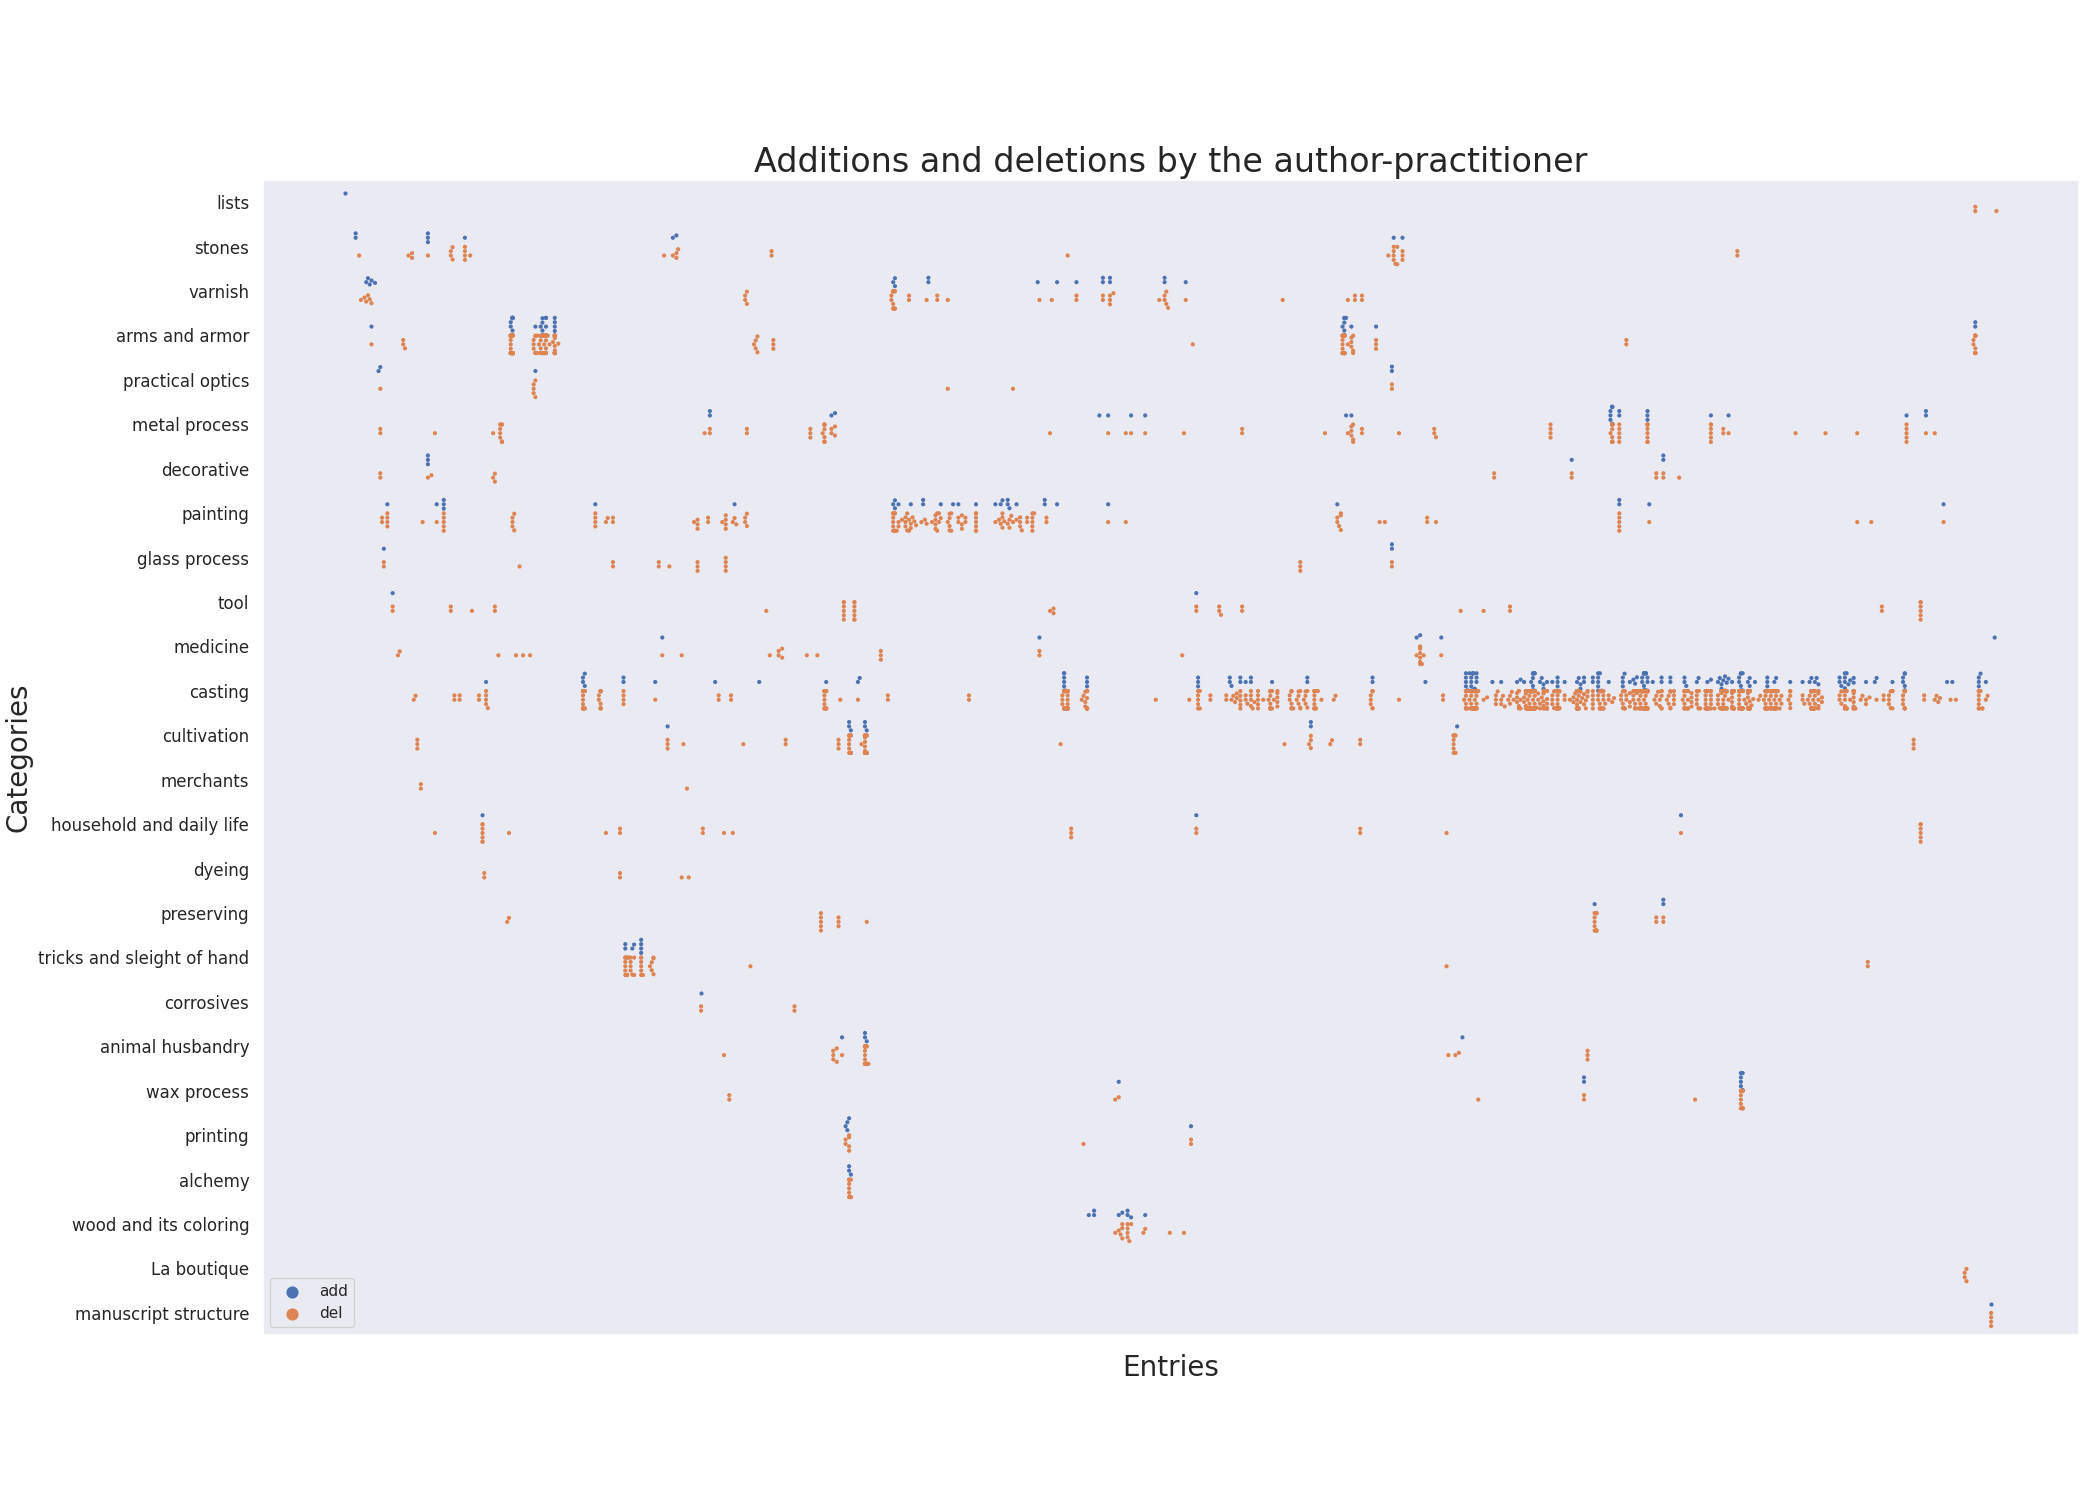
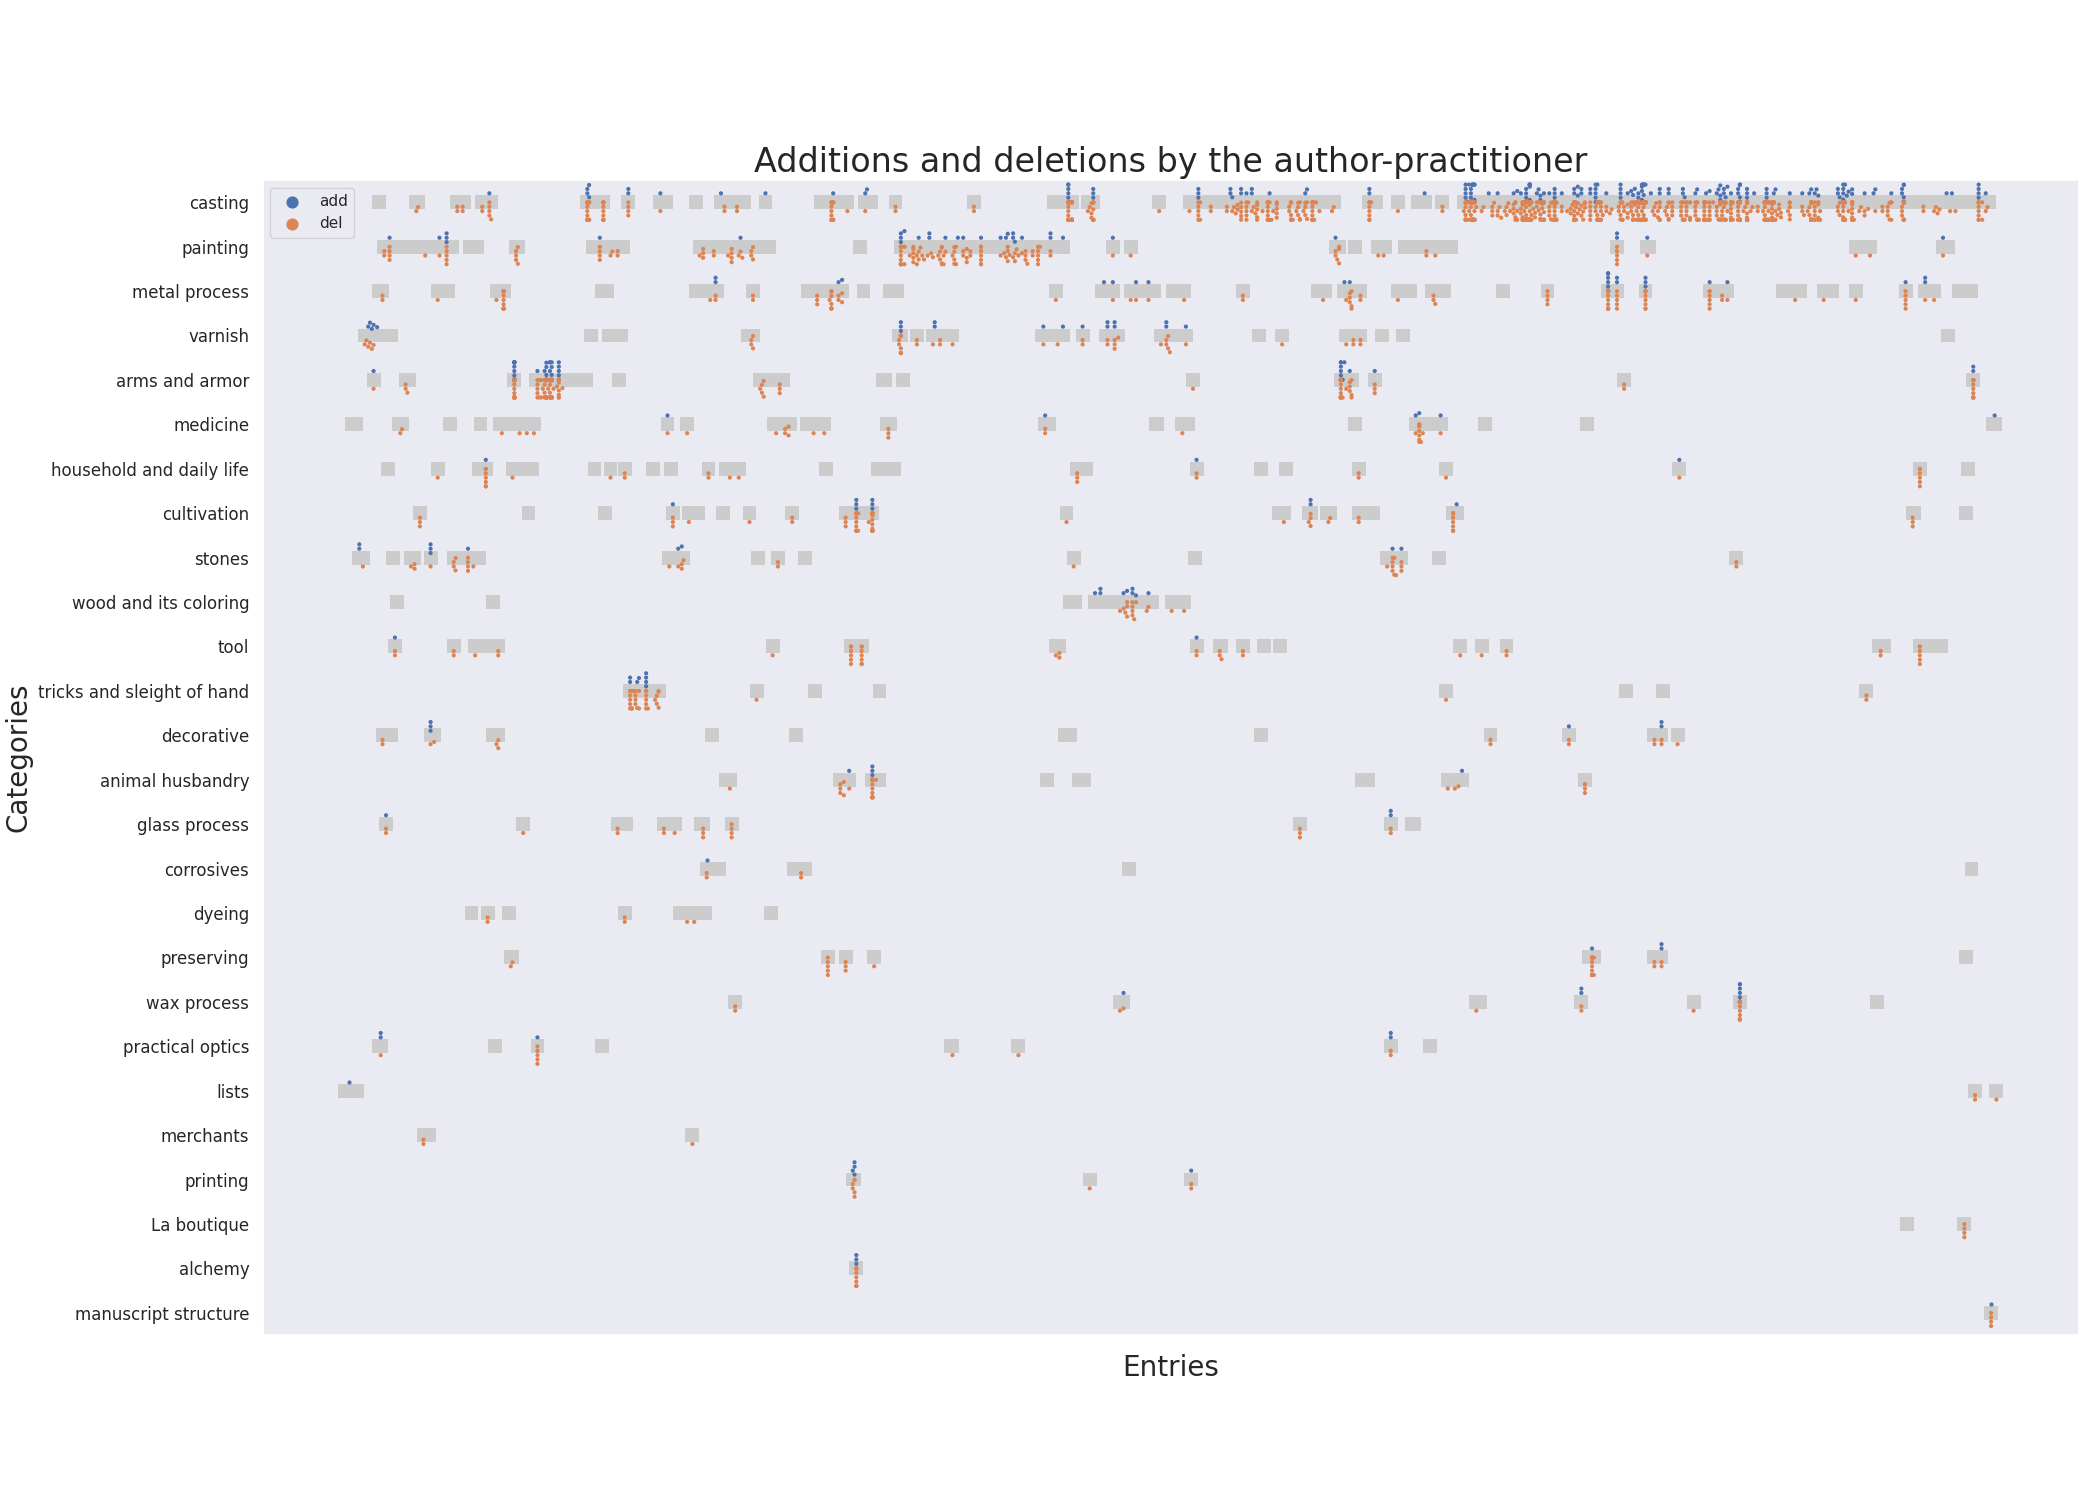
logscale for scatterplots + general tweaks in various plots

diff --git a/manuscript_visualizations.py b/manuscript_visualizations.py
@@ -13,6 +13,15 @@ import matplotlib.pyplot as plt
 cwd = os.getcwd()
 m_path = cwd if 'manuscript-object' not in cwd else f'{cwd}/../'
 
+all_categories = ["casting", "painting", "metal process", "varnish",
+              "arms and armor", "medicine", "household and daily life",
+              "cultivation", "stones", "wood and its coloring", "tool",
+              "tricks and sleight of hand", "decorative",
+              "animal husbandry", "glass process", "corrosives", "dyeing",
+              "preserving", "wax process", "practical optics", "lists",
+              "merchants", "printing", "La boutique", "alchemy",
+              "manuscript structure"]
+
 
 def tags_scatterplot(search_tags, filename, title):
     manuscript_version = "tl" # "tl", "tc" or "tcn"
@@ -26,7 +35,6 @@ def tags_scatterplot(search_tags, filename, title):
         side = "r" if (i % 2 == 0) else "v"
 
         folio = f'{manuscript_version}_p{number}{side}_preTEI'
-        #print(folio)
         input_filename = f'{m_path}/ms-xml/{manuscript_version}/{folio}.xml'
 
         tree = etree.parse(input_filename)
@@ -66,7 +74,6 @@ def tags_bubbleplot(search_tags, filename, title, normalized):
         side = "r" if (i % 2 == 0) else "v"
 
         folio = f'{manuscript_version}_p{number}{side}_preTEI'
-        #print(folio)
         input_filename = f'{m_path}/ms-xml/{manuscript_version}/{folio}.xml'
 
         tree = etree.parse(input_filename)
@@ -100,7 +107,6 @@ def tags_bubbleplot(search_tags, filename, title, normalized):
 
     bubbleplot.set_xticklabels([], rotation = 90, fontsize = 6)
     bubbleplot.legend(fancybox = True)
-    #scatter.set_yticklabels(scatter.get_yticklabels(), size = 16)
 
     fig = bubbleplot.get_figure()
     fig.savefig(f"{viz_path}{filename}.png")
@@ -109,44 +115,39 @@ def tags_bubbleplot(search_tags, filename, title, normalized):
 def categories_barplot():
     manuscript_version = "tl" # "tl", "tc" or "tcn"
 
-    categories = ["casting", "painting", "metal process", "varnish",
-                  "arms and armor", "medicine", "household and daily life",
-                  "cultivation", "stones", "wood and its coloring", "tool",
-                  "tricks and sleight of hand", "decorative",
-                  "animal husbandry", "glass process", "corrosives", "dyeing",
-                  "preserving", "wax process", "practical optics", "lists",
-                  "merchants", "printing", "La boutique", "alchemy",
-                  "manuscript structure"]
-    counts = np.zeros(len(categories))
+    counts = np.zeros(len(all_categories))
+    entries = []
 
     for i in range(0, 340):
         number = format(i//2 + 1, '03')
         side = "r" if (i % 2 == 0) else "v"
 
         folio = f'{manuscript_version}_p{number}{side}_preTEI'
-        #print(folio)
         input_filename = f'{m_path}/ms-xml/{manuscript_version}/{folio}.xml'
 
         tree = etree.parse(input_filename)
 
         for div in tree.findall(".//div"):
+            entry = div.get("id")
+            if entry == None or entry in entries:
+                # has already been seen or is not an entry
+                continue
+            entries.append(entry)
             category_list = div.get("categories")
             if category_list != None:
                 category_list = category_list.split(";")
-                for i in range(len(categories)):
-                    if categories[i] in category_list:
+                for i in range(len(all_categories)):
+                    if all_categories[i] in category_list:
                         counts[i] += 1
-
-    df = pandas.DataFrame({"counts": counts, "categories": categories})
+    df = pandas.DataFrame({"counts": counts, "categories": all_categories})
     cat_order = df.sort_values("counts", ascending = False).categories
-
+    
     plt.subplots(figsize = (10, 10))
     plt.gcf().subplots_adjust(bottom = 0.35)
     barplt = sns.barplot(x = "categories", y = "counts", data = df,
                          order = cat_order)
 
     total_sum = sum(counts)
-    print(total_sum)
     for p in barplt.patches:
         nb = format(p.get_height()/total_sum*100, '.2f')
         barplt.annotate(nb + "%", (p.get_x() + p.get_width(), p.get_height() + 5),
@@ -158,12 +159,11 @@ def categories_barplot():
     barplt.set_title("How many entries there are for each category", fontsize = 20)
 
     barplt.set_xticklabels(barplt.get_xticklabels(), rotation = 90, fontsize = 16)
-    #scatter.set_yticklabels(scatter.get_yticklabels(), size = 16)
     fig = barplt.get_figure()
     fig.savefig(viz_path + "categories_barplot.png")
 
 
-def entry_words_scatterplot():
+def entry_words_scatterplot(logscale):
     for manuscript_version in ["tc", "tcn", "tl"]:
 
         entries = []
@@ -176,13 +176,14 @@ def entry_words_scatterplot():
             side = "r" if (i % 2 == 0) else "v"
 
             folio = f'{manuscript_version}_p{number}{side}_preTEI'
-            #print(folio)
             input_filename = f'{m_path}/ms-xml/{manuscript_version}/{folio}.xml'
 
             tree = etree.parse(input_filename)
 
             for div in tree.findall(".//div"):
                 entry = div.get("id")
+                if entry == None:
+                    continue
                 entry_text = etree.tostring(div, method = "text", encoding="UTF-8").decode('utf-8')
                 entry_words = entry_text.split()
                 number_of_words = len(entry_words)
@@ -209,49 +210,91 @@ def entry_words_scatterplot():
 
         for line in range(0, df.shape[0]):
             if (df.lengths[line] > 1500):
-                scatter.text(df.lengths[line] + 30, df.normalized_lengths[line], df.entries[line], horizontalalignment="left", fontsize = 10)
+                scatter.text(df.lengths[line] + 30, df.normalized_lengths[line], df.entries[line], horizontalalignment = "left", fontsize = 10)
+            if (df.lengths[line] < 2 and logscale):
+                scatter.text(df.lengths[line]*1.1, df.normalized_lengths[line], df.entries[line], horizontalalignment = "left", fontsize = 10)
 
-        scatter.set_ylabel("Number of different words", fontsize = 16)
         scatter.set_xlabel("Number of words", fontsize = 16)
-        scatter.set_title(f"Lengths of entries [{manuscript_version}]", fontsize = 20)
+        scatter.set_ylabel("Number of different words", fontsize = 16)
+        if logscale:
+            scatter.set(xscale = "log")
+            scatter.set(yscale = "log")
+            scatter.set_title(f"Lengths of entries (logscale) [{manuscript_version}]", fontsize = 20)
+        else:
+            scatter.set_title(f"Lengths of entries [{manuscript_version}]", fontsize = 20)
 
         scatter.legend(fancybox = True)
-        #scatter.set_yticklabels(scatter.get_yticklabels(), size = 16)
+
+        max_words = np.max(lengths)
+        max_diff_words = np.max(normalized_lengths)
+        minmax = np.min([max_words, max_diff_words])
+        scatter.plot([1, minmax], [1, minmax], ':k')
+        scatter.text(minmax, minmax + 10, "1:1 ratio", horizontalalignment = "center", fontsize = 10)
+
+        ratios = [lengths[i]/normalized_lengths[i] for i in range(len(lengths))]
+        mean_ratio = np.mean(ratios)
+        scatter.plot([1, minmax*mean_ratio], [1, minmax], ':r')
+        if logscale:
+            scatter.text(minmax*mean_ratio, minmax + 200, "mean ratio", horizontalalignment = "center", fontsize = 10, color = "red")
+        else:
+            scatter.text(minmax*mean_ratio, minmax + 10, "mean ratio", horizontalalignment = "center", fontsize = 10, color = "red")
 
         fig = scatter.get_figure()
-        fig.savefig(f"{viz_path}entry_words_scatterplot_{manuscript_version}.png")
+        if logscale:
+            fig.savefig(f"{viz_path}entry_words_scatterplot_logscale_{manuscript_version}.png")
+        else:
+            fig.savefig(f"{viz_path}entry_words_scatterplot_linearscale_{manuscript_version}.png")
 
 
 def tags_by_category_swarmplot(search_tags, filename, title):
     manuscript_version = "tl" # "tl", "tc" or "tcn"
 
+    # for the swarmplot
     entries = []
     entry_ids = []
     tags = []
     categories = []
     entry_count = 0
 
+    # for the stripplot
+    all_entries = []
+    entry_ids2 = []
+    categories2 = []
+
     for i in range(0, 340):
         number = format(i//2 + 1, '03')
         side = "r" if (i % 2 == 0) else "v"
 
         folio = f'{manuscript_version}_p{number}{side}_preTEI'
-        #print(folio)
         input_filename = f'{m_path}/ms-xml/{manuscript_version}/{folio}.xml'
 
         tree = etree.parse(input_filename)
 
         for div in tree.findall(".//div"):
             entry = div.get("id")
+            if entry == None:
+                # not an entry
+                continue
+
+            id = -1
+            for j in range(len(all_entries)):
+                if all_entries[j] == entry:
+                    id = entry_ids2[j]
+                    break
+            if id == -1:
+                id = entry_count
+                entry_count += 1
+
             entry_text = etree.tostring(div, method = "xml", encoding="UTF-8").decode('utf-8')
             category_list = div.get("categories")
             if isinstance(category_list, str):
                 category_list = category_list.split(";")
             if category_list == None:
-                continue
-            id = entry_count
-            if (entry not in entries):
-                entry_count += 1
+                # find the categories if this entry was already seen
+                category_list = []
+                for j in range(len(all_entries)):
+                    if all_entries[j] == entry:
+                        category_list.append(categories2[j])
 
             for tag in search_tags:
                 count = entry_text.count(f'<{tag}>')
@@ -262,12 +305,23 @@ def tags_by_category_swarmplot(search_tags, filename, title):
                         tags.append(tag)
                         categories.append(cat)
 
-    df = pandas.DataFrame({"entries": entries, "tags": tags, "entry_ids": entry_ids, "categories": categories})
+            for cat in category_list:
+                all_entries.append(entry)
+                entry_ids2.append(id)
+                categories2.append(cat)
+
+    df_swarm = pandas.DataFrame({"tags": tags, "entry_ids": entry_ids, "categories": categories})
+    df_strip = pandas.DataFrame({"entry_ids": entry_ids2, "categories": categories2})
 
     plt.subplots(figsize = (21, 15))
     plt.gcf().subplots_adjust(right = 0.99)
 
-    swarm = sns.swarmplot(x = "entry_ids", y = "categories", hue = "tags", dodge = True, data = df, size = 3)
+    swarm = sns.stripplot(x = "entry_ids", y = "categories", data = df_strip,
+                          color = "0.8", jitter = 0, size = 10, marker = "s",
+                          order = all_categories)
+    swarm = sns.swarmplot(x = "entry_ids", y = "categories", hue = "tags",
+                          dodge = True, data = df_swarm, size = 3,
+                          order = all_categories)
 
     swarm.grid(False)
     swarm.set_ylabel("Categories", fontsize = 20)
@@ -290,6 +344,7 @@ if not os.path.exists(viz_path):
 language_tags = ["fr", "el", "it", "la", "oc", "po"]
 
 title = "Other languages in the English translation of the manuscript"
+"""
 tags_scatterplot(language_tags, "languages_scatterplot", title)
 
 tags_bubbleplot(language_tags, "languages_bubbles", "Other languages in the English translation of the manuscript", False)
@@ -297,11 +352,12 @@ tags_bubbleplot(language_tags, "languages_bubbles_normalized", "Other languages 
 
 tags_bubbleplot(["del", "add"], "add_del_bubbles", "Additions and deletions by the author-practitioner", False)
 tags_bubbleplot(["del", "add"], "add_del_bubbles_normalized", "Additions and deletions by the author-practitioner (normalized by entry length)", True)
-
+"""
 categories_barplot()
-
-entry_words_scatterplot()
+"""
+entry_words_scatterplot(True)
+entry_words_scatterplot(False)
 
 tags_by_category_swarmplot(["del", "add"], "add_del_swarmplot", "Additions and deletions by the author-practitioner")
-
+"""
 print("All done!")
